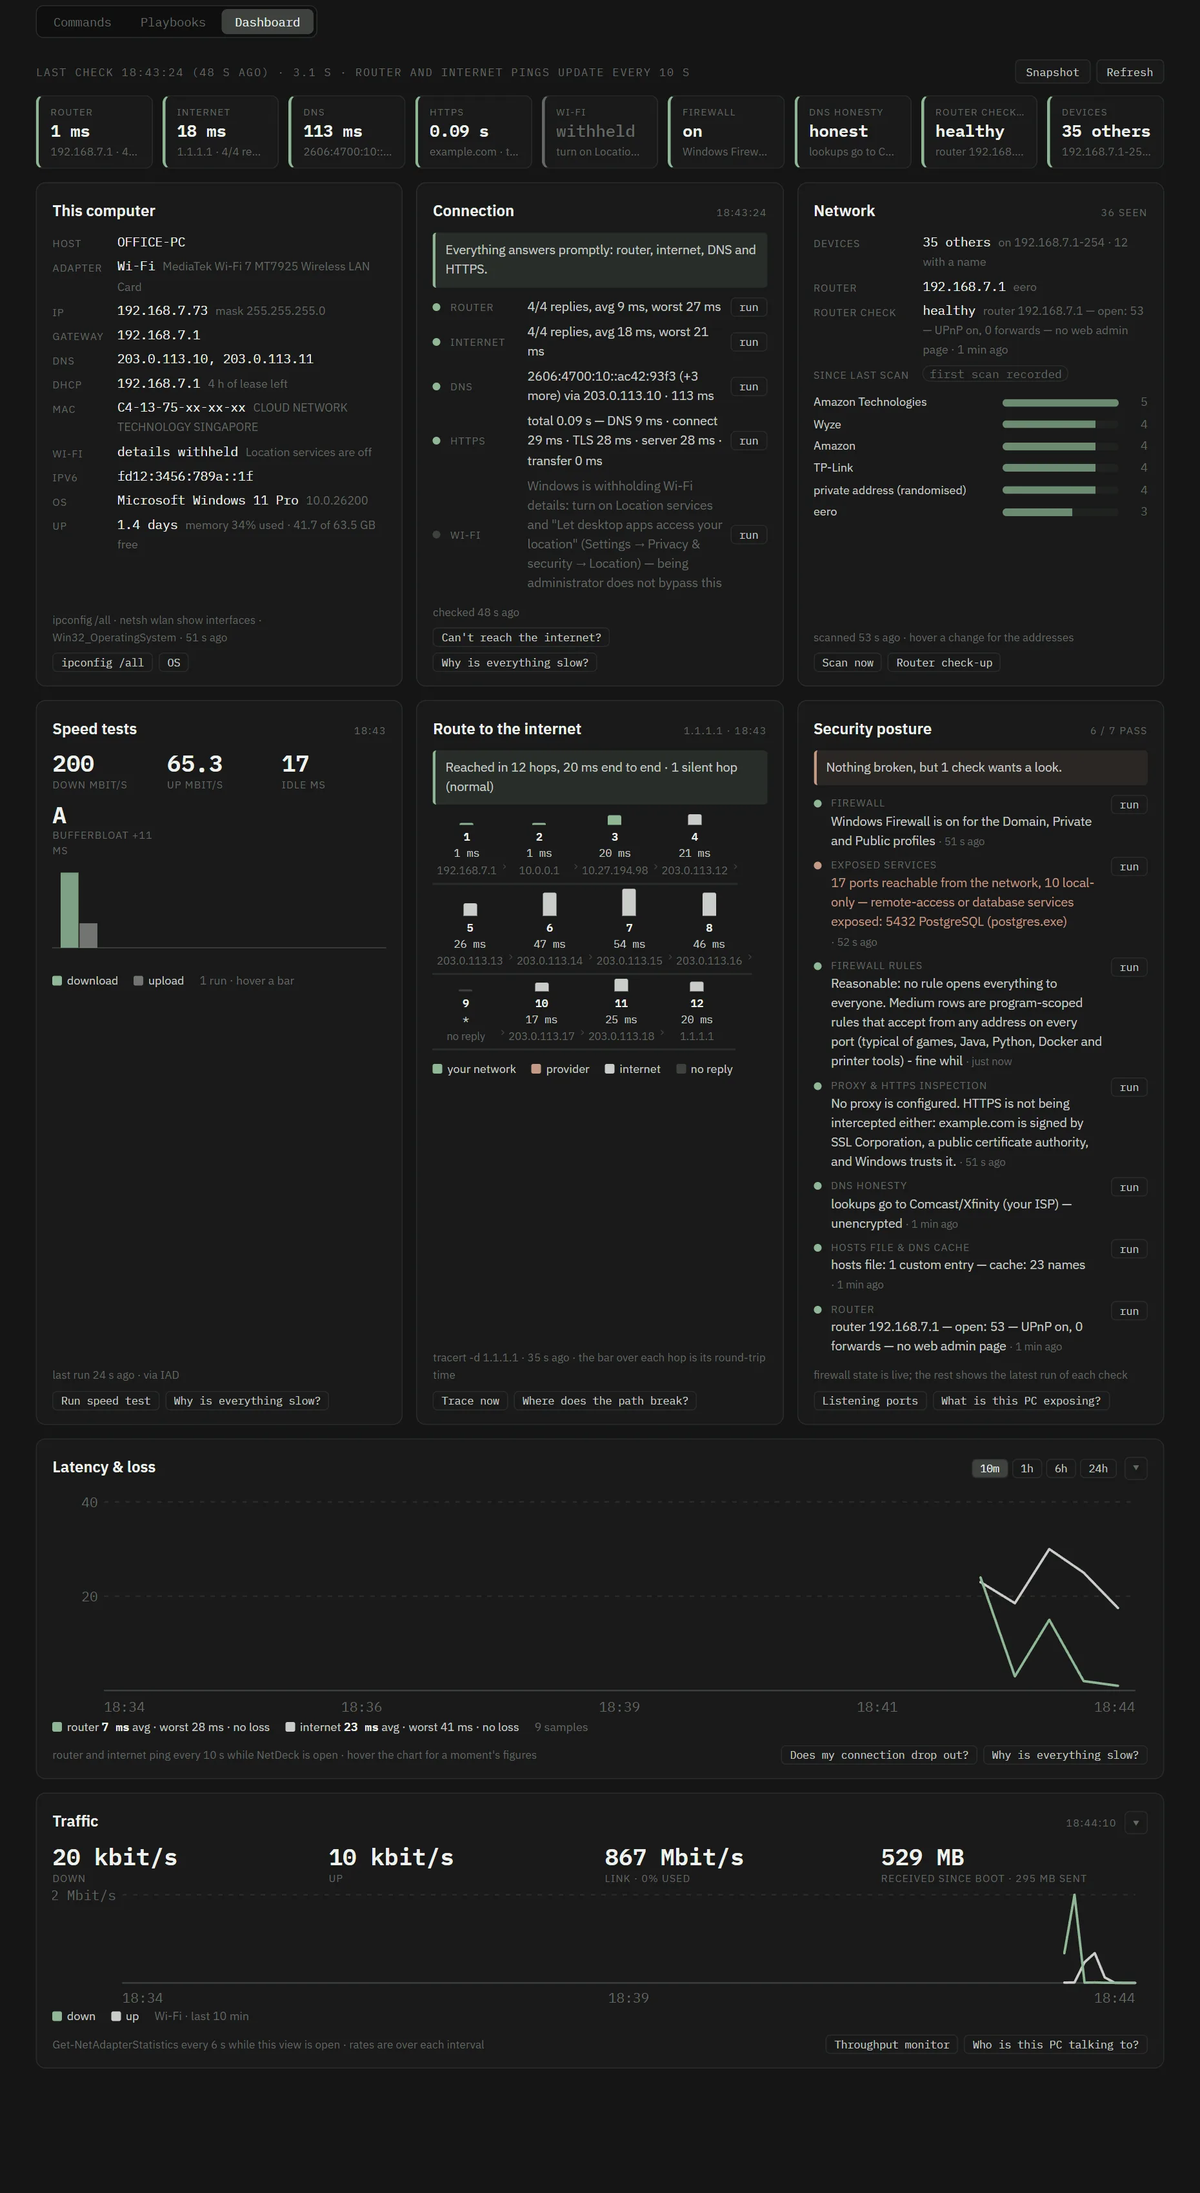
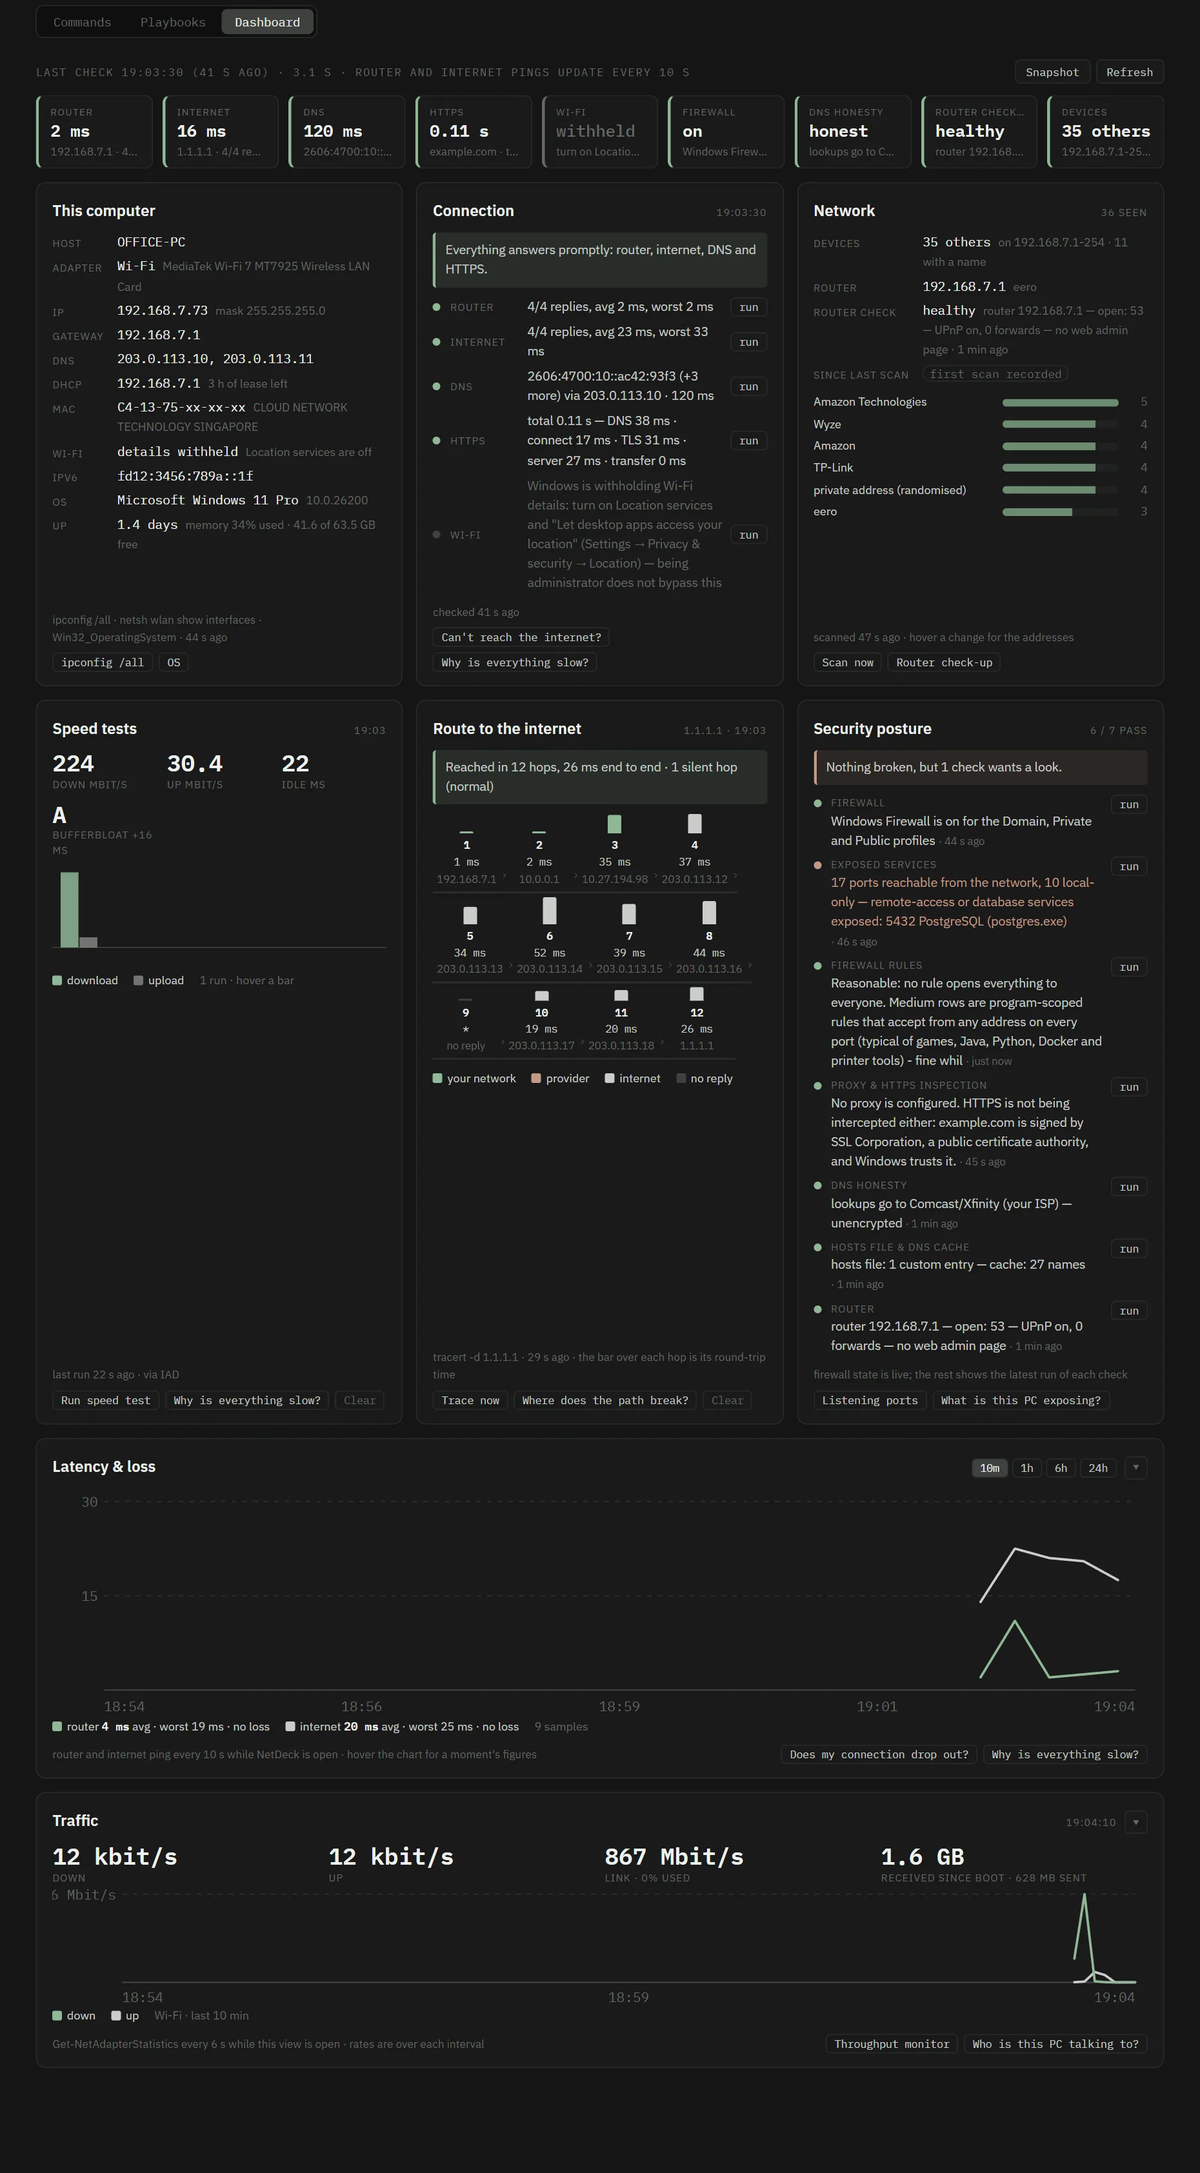
1.25.4: Clear buttons on the Speed tests and Route cards
Each forgets what the dashboard keeps (all speed tests / the last trace) after a confirmation; the runs stay in
History and are not picked up again. Manual updated and its screenshot re-taken.

diff --git a/public/manual.html b/public/manual.html
@@ -250,7 +250,7 @@
 
 <h3 id="s-header">Header &amp; search</h3>
 <div class="ui">
-  <div>&gt;_ NetDeck · v<span class="nd-version">1.25.3</span></div><div>The app name and the version you are running (hover it to see which edition: desktop app, local server or hosted reference). Quote the version when reporting a problem; every edition built from the same source shows the same number.</div>
+  <div>&gt;_ NetDeck · v<span class="nd-version">1.25.4</span></div><div>The app name and the version you are running (hover it to see which edition: desktop app, local server or hosted reference). Quote the version when reporting a problem; every edition built from the same source shows the same number.</div>
   <div>Search box</div><div>Type anything — a command name (<code>ping</code>), part of its syntax (<code>-ano</code>), or a word from its purpose (<code>cache</code>). The cards filter as you type. Press <kbd>/</kbd> anywhere on the page to jump into the box.</div>
   <div>Jump to… <kbd>Ctrl</kbd>+<kbd>K</kbd></div><div>The command palette. A pop-up search over every command <em>and</em> playbook; arrow keys move, <kbd>Enter</kbd> jumps straight to that card (clearing any filters that were hiding it) and puts the cursor in its host box or on its run button, so <kbd>Ctrl</kbd>+<kbd>K</kbd>, "trac", <kbd>Enter</kbd>, type a host, <kbd>Enter</kbd> runs a traceroute without touching the mouse.</div>
   <div>&#x263D; / &#x2600;</div><div>Switches between dark and light themes. Your choice is remembered.</div>
@@ -362,7 +362,7 @@
 
 <h2 id="dashboard">Dashboard</h2>
 <p>The third view: one screen that says how the network is right now. Everything on it comes from the same commands and checks as the rest of NetDeck — the dashboard runs the quick ones itself and shows the latest result of the slow ones — and every figure can be traced back to real output: click any tile, or the <span class="btn">run</span> beside any row, and that command or playbook runs in the terminal drawer.</p>
-<figure class="shot"><img src="manual-img/dashboard.webp" width="1860" height="3399" alt="The Dashboard view: eight status tiles and the This computer, Connection and Network cards" loading="lazy"><figcaption>A healthy office network. Green tiles across the top; this computer's addresses, the connection checks with their one-line verdict, and the network as the last scan saw it; then the speed tests kept so far, the path to 1.1.1.1 hop by hop and the security checks with how each last came out; and at the bottom the two chart cards, latency over the last ten minutes and the traffic through the adapter, which start folded and are shown open here.</figcaption></figure>
+<figure class="shot"><img src="manual-img/dashboard.webp" width="1860" height="3369" alt="The Dashboard view: eight status tiles and the This computer, Connection and Network cards" loading="lazy"><figcaption>A healthy office network. Green tiles across the top; this computer's addresses, the connection checks with their one-line verdict, and the network as the last scan saw it; then the speed tests kept so far, the path to 1.1.1.1 hop by hop and the security checks with how each last came out; and at the bottom the two chart cards, latency over the last ten minutes and the traffic through the adapter, which start folded and are shown open here.</figcaption></figure>
 <div class="ui">
   <div>Status tiles</div><div>Eight tiles, each with a coloured left edge — green is fine, amber is slow or worth a look, red is broken, grey is not checked yet. <strong>Router</strong> and <strong>Internet</strong> show the live ping from the context strip, so they update every 10 seconds on their own. <strong>DNS</strong>, <strong>HTTPS</strong> and <strong>Wi-Fi</strong> come from the quick checks below. <strong>DNS honesty</strong>, <strong>Router check-up</strong> and <strong>Devices</strong> take a minute each, so the dashboard does not run them itself: they show the most recent run of that playbook and how old it is, and clicking one runs it again.</div>
   <div><span class="btn">Refresh</span></div><div>Runs the quick checks again, all at once — <code>ipconfig /all</code>, four pings to the router and four to <code>1.1.1.1</code>, a lookup of example.com, a timed HTTPS request to example.com, the Wi-Fi link, the firewall state, and uptime and memory — in about three seconds. The dashboard refreshes by itself when you open it if its last snapshot is more than two minutes old. The snapshot is kept in this browser, so the dashboard always opens with something to show, and the line above the tiles says when it was taken.</div>
@@ -370,9 +370,9 @@
   <div>Connection</div><div>The quick checks as rows, with a verdict line above them that says what they add up to: router unreachable; router fine but no internet; internet fine but names do not resolve; ping and DNS fine but HTTPS fails (a sign-in portal, proxy or firewall); everything answers but slowly; or all good. The buttons at the bottom open the matching playbooks.</div>
   <div>Network</div><div>Built from the scan log — the record that <a href="#pb-scan">Scan my network</a> keeps: how many other devices share your subnet, the router and its last check-up, what changed since the previous scan (hover <em>new</em>, <em>gone</em> or <em>moved</em> for the addresses), and a bar per manufacturer. <span class="btn">Scan now</span> runs the scan; the card updates when it finishes.</div>
   <div>Latency &amp; loss</div><div>The router and internet pings from the context strip, drawn over time: a green line for the router, a grey one for the internet, and a red mark on the baseline wherever a ping got no reply (the taller the mark, the larger the share of pings lost in that moment). Pick <strong>10m</strong>, <strong>1h</strong>, <strong>6h</strong> or <strong>24h</strong>; hover the chart for the figures at any moment. Below it, the average, worst and loss for the range, and the results of any longer monitors — the one-ping-a-second runs from <a href="#pb-dropouts">Does my connection drop out?</a>. NetDeck only records while it is open and showing, so a closed laptop leaves a gap, not a flat line; samples are kept for 24 hours. This card and the Traffic card start folded to their header with a one-line summary each time NetDeck opens, so the charts stay out of the way until you want them; the <strong>▸</strong> in the corner opens one for the rest of the session, and <strong>▾</strong> folds it again. A folded Traffic card does not sample the adapter.</div>
-  <div>Speed tests</div><div>Every <a href="#cmd-speed-test">speed test</a> you run is kept here: the latest one large (download, upload, idle latency, and the bufferbloat grade with how much latency rose under load), then a pair of bars per past run — green for download, grey for upload — so a line that is getting slower shows as a slope. Hover a bar for that run's figures and the Cloudflare site it tested against. Up to 100 runs are kept, whether started from this card, from the command, or from a playbook.</div>
+  <div>Speed tests</div><div>Every <a href="#cmd-speed-test">speed test</a> you run is kept here: the latest one large (download, upload, idle latency, and the bufferbloat grade with how much latency rose under load), then a pair of bars per past run — green for download, grey for upload — so a line that is getting slower shows as a slope. Hover a bar for that run's figures and the Cloudflare site it tested against. Up to 100 runs are kept, whether started from this card, from the command, or from a playbook. <span class="btn">Clear</span> forgets them all (the runs themselves stay in History) — useful after moving to a different network, so the bars start again from there.</div>
   <div><span class="btn">Snapshot</span></div><div>Saves the whole dashboard as one HTML file — every tile and card as it is on screen, with a Print button for a PDF. Tick <em>Anonymise</em> (on by default) to replace this computer's name, IP addresses and the device half of MAC addresses, the same way a run report does, so the file can go to IT or your provider as a picture of the network right now.</div>
-  <div>Route to the internet</div><div>The last traceroute, drawn as a chain: one box per hop with its number, round-trip time and address, and a bar over each whose height is its delay, coloured by where the hop lives — green inside your own network, amber in your provider's access network, grey on the internet, and an empty box for a hop that did not reply (routers are often told not to; that is normal). A hop underlined in amber is where the latency jumps and stays up — the point where the delay is added. <span class="btn">Trace now</span> traces to 1.1.1.1 again; a trace to any other host, from the command or a playbook, replaces it.</div>
+  <div>Route to the internet</div><div>The last traceroute, drawn as a chain: one box per hop with its number, round-trip time and address, and a bar over each whose height is its delay, coloured by where the hop lives — green inside your own network, amber in your provider's access network, grey on the internet, and an empty box for a hop that did not reply (routers are often told not to; that is normal). A hop underlined in amber is where the latency jumps and stays up — the point where the delay is added. <span class="btn">Trace now</span> traces to 1.1.1.1 again; a trace to any other host, from the command or a playbook, replaces it, and <span class="btn">Clear</span> forgets it.</div>
   <div>Traffic</div><div>How much is flowing through your adapter right now: download and upload rate, the link speed and how much of it is in use, and the totals since the last restart, with a ten-minute chart of both directions. While the dashboard is showing, NetDeck reads the adapter's byte counters every six seconds (<code>Get-NetAdapterStatistics</code>) and works out the rate over each interval; other adapters that are up are listed below with their rates. Leave the dashboard and the sampling stops.</div>
   <div>Security posture</div><div>One list of the security checks and how each one last came out: the Windows Firewall state (live, from the quick checks), exposed services from <a href="#pb-exposure">What is this PC exposing?</a>, the <a href="#cmd-fw-audit">firewall rule audit</a>, <a href="#pb-proxy">Proxy &amp; HTTPS inspection</a>, <a href="#pb-dnshonest">DNS honesty</a> with the hosts-file and cache audit, and the <a href="#pb-routercheck">router check-up</a>. A verdict line above says what they add up to; each row shows when it last ran and has a run button. Rows that have never run are grey — the card is only as complete as the checks you have run.</div>
 </div>
@@ -1428,7 +1428,7 @@ BUILTIN\Administrators    Alias    S-1-5-32-544    Group used for deny only</pre
 <p class="foot">NetDeck runs only the commands listed as runnable, with the exact arguments shown, on your own machine. Commands marked copy-only are for you to run in a terminal when you've decided that's what you want.</p>
 <!-- about:start (generated by tools/licenses.js) -->
 <h2 id="about">About &amp; license</h2>
-<p>NetDeck <span class="nd-version">1.25.3</span> — a network &amp; system command reference with live execution and guided playbooks. Source code, releases and issue tracker: <a href="https://github.com/DavidKFisk/netdeck">github.com/DavidKFisk/netdeck</a>.</p>
+<p>NetDeck <span class="nd-version">1.25.4</span> — a network &amp; system command reference with live execution and guided playbooks. Source code, releases and issue tracker: <a href="https://github.com/DavidKFisk/netdeck">github.com/DavidKFisk/netdeck</a>.</p>
 
 <h3 id="license">License</h3>
 <p>NetDeck is free software under the MIT License. In short: you may use, copy, change and pass it on, including commercially, as long as the copyright notice and this licence text go with it — and it comes with no warranty of any kind. The full text:</p>

diff --git a/public/dashboard.js b/public/dashboard.js
@@ -70,6 +70,8 @@ window.NetDeckDashboard = (() => {
   function onClick(e) {
     const fold = e.target.closest('[data-collapse]');
     if (fold) { toggleCollapse(fold.dataset.collapse); return; }
+    const clear = e.target.closest('[data-clear]');
+    if (clear) { clearSeries(clear.dataset.clear); return; }
     const r = e.target.closest('[data-range]');
     if (r) { range = r.dataset.range; try { localStorage.setItem('netdeck.dashboard.range', range); } catch (err) { /* fine */ } const c = els.grid.querySelector('#dash-latency'); if (c) c.outerHTML = latencyCard(); return; }
     const b = e.target.closest('[data-run],[data-pb]');
@@ -464,6 +466,14 @@ window.NetDeckDashboard = (() => {
     saveSeries();
     return used;
   }
+  /* Forget kept results. The runs stay in History; their ids stay in the ingested list, so they are not picked up again. */
+  function clearSeries(what) {
+    if (what === 'speed') { if (!series.speed.length || !window.confirm(`Forget all ${series.speed.length} speed test${series.speed.length === 1 ? '' : 's'} kept on the dashboard? The runs themselves stay in History.`)) return; series.speed = []; }
+    else if (what === 'trace') { if (!series.trace || !window.confirm('Forget the last traceroute shown on the dashboard? The run itself stays in History.')) return; series.trace = null; }
+    else return;
+    saveSeries();
+    render();
+  }
   function backfill() { let any = false; for (const h of (D.history() || []).slice().reverse()) if (ingest(h)) any = true; return any; }
 
   const clockShort = (ts) => new Date(ts).toLocaleTimeString([], { hour12: false, hour: '2-digit', minute: '2-digit' });
@@ -539,7 +549,7 @@ window.NetDeckDashboard = (() => {
   function speedCard() {
     const runs = series.speed.slice(-20);
     const last = runs[runs.length - 1];
-    const foot = (extra) => `<span>${extra}</span><span class="dash-links">${btn('Run speed test', 'speed-test')}${pbBtn('Why is everything slow?', 'slow')}</span>`;
+    const foot = (extra, clear) => `<span>${extra}</span><span class="dash-links">${btn('Run speed test', 'speed-test')}${pbBtn('Why is everything slow?', 'slow')}${clear ? '<button type="button" class="tbtn tbtn-sm dash-clear" data-clear="speed" title="Forget every speed test kept here">Clear</button>' : ''}</span>`;
     if (!last) return card('Speed tests', '', '<p class="dash-empty">No speed test yet. Each run (about half a minute, against speed.cloudflare.com) is kept here: download, upload, idle latency and the bufferbloat grade, so you can see whether the line is getting better or worse.</p>', foot('from the run history'));
     const mb = (v) => (v == null ? '—' : v >= 100 ? Math.round(v) : v.toFixed(1));
     const big = `<div class="dash-big"><div><span class="dash-big-n">${mb(last.down)}</span><span class="dash-big-l">down Mbit/s</span></div><div><span class="dash-big-n">${mb(last.up)}</span><span class="dash-big-l">up Mbit/s</span></div><div><span class="dash-big-n">${last.idle == null ? '—' : last.idle}</span><span class="dash-big-l">idle ms</span></div><div><span class="dash-big-n" data-state="${GRADE[last.grade] || 'idle'}">${esc(last.grade || '—')}</span><span class="dash-big-l">bufferbloat${last.bloat != null ? ` +${last.bloat} ms` : ''}</span></div></div>`;
@@ -553,7 +563,7 @@ window.NetDeckDashboard = (() => {
     }).join('');
     const labels = runs.length > 1 ? `<text x="0" y="${H - 2}" class="ax">${esc(dayShort(runs[0].t))}</text><text x="${((runs.length - 1) * slot + slot * 0.15 + bw).toFixed(1)}" y="${H - 2}" class="ax" text-anchor="end">${esc(dayShort(last.t))}</text>` : '';
     const chart = `<svg class="dash-chart-svg dash-bars-svg" viewBox="0 0 ${W} ${H}" role="img" aria-label="Past speed tests"><line x1="0" y1="${H - padB}" x2="${W}" y2="${H - padB}" class="base"/>${bars}${labels}</svg><div class="dash-stats"><span class="dash-stat"><span class="dash-swatch bar-d"></span>download</span><span class="dash-stat"><span class="dash-swatch bar-u"></span>upload</span><span class="dash-stat dim">${runs.length} run${runs.length === 1 ? '' : 's'} · hover a bar</span></div>`;
-    return card('Speed tests', when(last.t), big + chart, foot(`last run ${ago(last.t)}${last.colo ? ` · via ${esc(last.colo)}` : ''}`));
+    return card('Speed tests', when(last.t), big + chart, foot(`last run ${ago(last.t)}${last.colo ? ` · via ${esc(last.colo)}` : ''}`, true));
   }
 
   function routeCard() {
@@ -571,7 +581,7 @@ window.NetDeckDashboard = (() => {
     }).join('');
     const legend = '<div class="dash-stats"><span class="dash-stat"><span class="dash-swatch net-private"></span>your network</span><span class="dash-stat"><span class="dash-swatch net-cgnat"></span>provider</span><span class="dash-stat"><span class="dash-swatch net-public"></span>internet</span><span class="dash-stat"><span class="dash-swatch net-silent"></span>no reply</span></div>';
     const body = `<p class="dash-verdict" data-tone="${TONE[tr.status] || 'idle'}">${esc(tr.summary || '')}</p><div class="dash-chain">${chain}</div>${legend}`;
-    return card('Route to the internet', `${esc(host)} · ${when(tr.t)}`, body, `<span>tracert -d ${esc(host)} · ${ago(tr.t)} · the bar over each hop is its round-trip time</span><span class="dash-links">${links}</span>`);
+    return card('Route to the internet', `${esc(host)} · ${when(tr.t)}`, body, `<span>tracert -d ${esc(host)} · ${ago(tr.t)} · the bar over each hop is its round-trip time</span><span class="dash-links">${links}<button type="button" class="tbtn tbtn-sm dash-clear" data-clear="trace" title="Forget this trace">Clear</button></span>`);
   }
 
   /* ================= traffic: adapter byte counters every few seconds while the dashboard is showing ================= */

diff --git a/public/styles.css b/public/styles.css
@@ -1224,3 +1224,5 @@ body[data-mode="static"] .live-only { display: none !important; }
 .dash-card.is-collapsed { padding-block: 10px; gap: 0; }
 .dash-card.is-collapsed .card-head { align-items: center; }
 .dash-collapsed-sum { flex: 1; min-width: 0; font-size: 12px; color: var(--muted); overflow: hidden; text-overflow: ellipsis; white-space: nowrap; }
+.dash-clear { color: var(--muted); }
+.dash-clear:hover:not(:disabled) { color: var(--err); border-color: var(--err); }

diff --git a/public/version.js b/public/version.js
@@ -1,2 +1,2 @@
 // Generated by tools/bump.js — do not edit; run "node tools/bump.js" instead.
-window.NETDECK_VERSION = '1.25.3';
+window.NETDECK_VERSION = '1.25.4';
